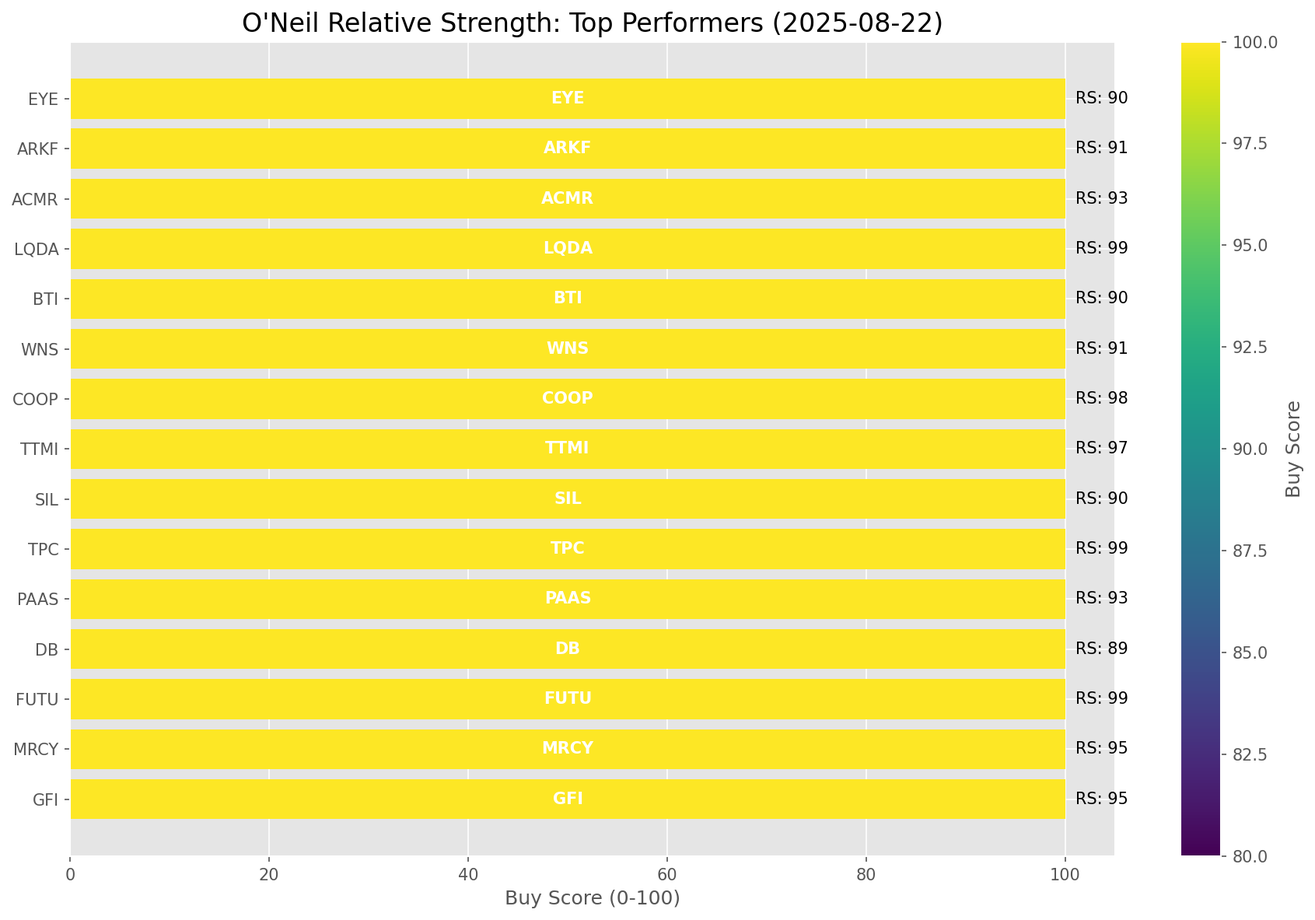
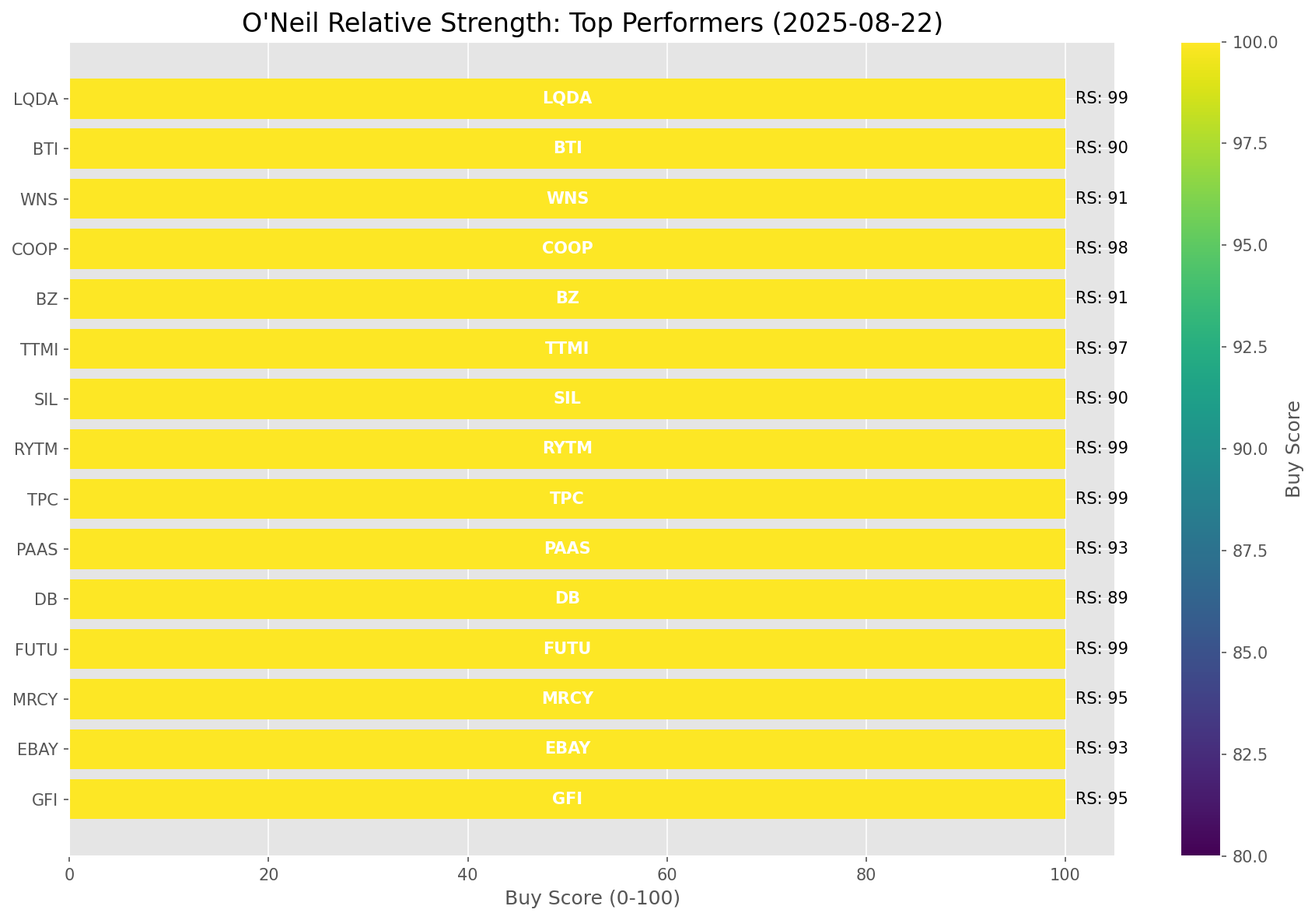
Add market report for 2025-08-22

diff --git a/oneil_relative_strength_report_2025-08-22.md b/oneil_relative_strength_report_2025-08-22.md
@@ -13,7 +13,7 @@
 | **Historical Mean** | 9.87 |
 | **Standard Deviation** | 0.41 |
 | **Z-Score (StdDev from Mean)** | 1.07 |
-| **Total Market Cap** | $318.15 trillion |
+| **Total Market Cap** | $318.18 trillion |
 | **GDP** | $30.33 trillion |
 
 ## **Market Insights**
@@ -49,41 +49,41 @@ Based on William O'Neil's Relative Strength Methodology
 
 | ETF | Strength | RS Rating | Performance | Above Key MAs | Trend | Sector |
 |-----|----------|-----------|-------------|--------------|-------|--------|
-| [URA](https://www.tradingview.com/chart/?symbol=URA) | 97.0 | 94.0 | 37.97% | 10d ✓, 50d ✓, 200d ✓ | ↗ | Uranium |
-| [ARKK](https://www.tradingview.com/chart/?symbol=ARKK) | 96.0 | 92.0 | 35.85% | 10d ✓, 50d ✓, 200d ✓ | ↗ | Innovation |
-| [ARKF](https://www.tradingview.com/chart/?symbol=ARKF) | 95.5 | 91.0 | 33.00% | 10d ✓, 50d ✓, 200d ✓ | ↗ | Fintech Innovation |
-| [ARKW](https://www.tradingview.com/chart/?symbol=ARKW) | 95.0 | 90.0 | 32.04% | 10d ✓, 50d ✓, 200d ✓ | ↗ | Next Generation Internet |
-| [SOXX](https://www.tradingview.com/chart/?symbol=SOXX) | 90.5 | 81.0 | 21.51% | 10d ✓, 50d ✓, 200d ✓ | ↗ | Semiconductors |
-| [JETS](https://www.tradingview.com/chart/?symbol=JETS) | 88.0 | 76.0 | 18.37% | 10d ✓, 50d ✓, 200d ✓ | ↗ | Airlines |
-| [SLV](https://www.tradingview.com/chart/?symbol=SLV) | 87.5 | 75.0 | 17.88% | 10d ✓, 50d ✓, 200d ✓ | ↗ | Silver |
-| [BLOK](https://www.tradingview.com/chart/?symbol=BLOK) | 87.0 | 74.0 | 17.66% | 10d ✓, 50d ✓, 200d ✓ | ↗ | Blockchain & Cryptocurrency |
-| [PAVE](https://www.tradingview.com/chart/?symbol=PAVE) | 84.0 | 68.0 | 13.89% | 10d ✓, 50d ✓, 200d ✓ | ↗ | Infrastructure |
-| [KWEB](https://www.tradingview.com/chart/?symbol=KWEB) | 84.0 | 68.0 | 13.96% | 10d ✓, 50d ✓, 200d ✓ | ↗ | Chinese Internet |
-| [AIQ](https://www.tradingview.com/chart/?symbol=AIQ) | 81.0 | 62.0 | 11.54% | 10d ✓, 50d ✓, 200d ✓ | ↗ | Artificial Intelligence & Technology |
-| [XLC](https://www.tradingview.com/chart/?symbol=XLC) | 79.0 | 58.0 | 10.45% | 10d ✓, 50d ✓, 200d ✓ | ↗ | Communications |
-| [IYZ](https://www.tradingview.com/chart/?symbol=IYZ) | 78.5 | 57.0 | 9.91% | 10d ✓, 50d ✓, 200d ✓ | ↗ | Telecommunications |
-| [XLY](https://www.tradingview.com/chart/?symbol=XLY) | 78.0 | 56.0 | 9.58% | 10d ✓, 50d ✓, 200d ✓ | ↗ | Consumer Discretionary |
-| [XLI](https://www.tradingview.com/chart/?symbol=XLI) | 76.0 | 52.0 | 8.38% | 10d ✓, 50d ✓, 200d ✓ | ↗ | Industrial |
-| [XLK](https://www.tradingview.com/chart/?symbol=XLK) | 74.6 | 69.0 | 14.50% | 10d ✗, 50d ✓, 200d ✓ | ↗ | Technology |
-| [XLU](https://www.tradingview.com/chart/?symbol=XLU) | 74.0 | 48.0 | 7.36% | 10d ✓, 50d ✓, 200d ✓ | ↗ | Utilities |
-| [XLF](https://www.tradingview.com/chart/?symbol=XLF) | 73.0 | 46.0 | 6.61% | 10d ✓, 50d ✓, 200d ✓ | ↗ | Financial |
-| [ITB](https://www.tradingview.com/chart/?symbol=ITB) | 72.5 | 85.0 | 25.08% | 10d ✓, 50d ✓, 200d ✓ | ↘ | Home Construction |
-| [ARKG](https://www.tradingview.com/chart/?symbol=ARKG) | 70.5 | 81.0 | 21.94% | 10d ✓, 50d ✓, 200d ✓ | ↘ | Genomics |
-| [ICLN](https://www.tradingview.com/chart/?symbol=ICLN) | 67.0 | 74.0 | 17.63% | 10d ✓, 50d ✓, 200d ✓ | ↘ | Clean Energy |
-| [GLD](https://www.tradingview.com/chart/?symbol=GLD) | 66.0 | 32.0 | 2.36% | 10d ✓, 50d ✓, 200d ✓ | ↗ | Gold |
-| [IBB](https://www.tradingview.com/chart/?symbol=IBB) | 65.5 | 71.0 | 15.54% | 10d ✓, 50d ✓, 200d ✓ | ↘ | Biotechnology |
-| [DBA](https://www.tradingview.com/chart/?symbol=DBA) | 60.5 | 21.0 | -0.26% | 10d ✓, 50d ✓, 200d ✓ | ↗ | Agriculture |
-| [IYT](https://www.tradingview.com/chart/?symbol=IYT) | 59.5 | 59.0 | 10.67% | 10d ✓, 50d ✓, 200d ✓ | ↘ | Transportation |
-| [XLE](https://www.tradingview.com/chart/?symbol=XLE) | 55.5 | 51.0 | 8.04% | 10d ✓, 50d ✓, 200d ✓ | ↘ | Energy |
-| [CIBR](https://www.tradingview.com/chart/?symbol=CIBR) | 54.6 | 29.0 | 1.69% | 10d ✓, 50d ✗, 200d ✓ | ↗ | Cybersecurity |
-| [XLB](https://www.tradingview.com/chart/?symbol=XLB) | 54.0 | 48.0 | 7.32% | 10d ✓, 50d ✓, 200d ✓ | ↘ | Materials |
-| [IYR](https://www.tradingview.com/chart/?symbol=IYR) | 52.0 | 44.0 | 6.09% | 10d ✓, 50d ✓, 200d ✓ | ↘ | Real Estate |
-| [XLV](https://www.tradingview.com/chart/?symbol=XLV) | 41.8 | 44.0 | 5.84% | 10d ✓, 50d ✓, 200d ✗ | ↘ | Healthcare |
-| [BIL](https://www.tradingview.com/chart/?symbol=BIL) | 41.0 | 22.0 | 0.05% | 10d ✓, 50d ✓, 200d ✓ | ↘ | Short-term Treasuries |
-| [DBC](https://www.tradingview.com/chart/?symbol=DBC) | 38.6 | 37.0 | 3.72% | 10d ✓, 50d ✗, 200d ✓ | ↘ | Commodities |
-| [TLT](https://www.tradingview.com/chart/?symbol=TLT) | 37.3 | 35.0 | 3.12% | 10d ✓, 50d ✓, 200d ✗ | ↘ | Long-term Treasuries |
-| [XLP](https://www.tradingview.com/chart/?symbol=XLP) | 33.6 | 27.0 | 1.24% | 10d ✗, 50d ✓, 200d ✓ | ↘ | Consumer Staples |
-| [UUP](https://www.tradingview.com/chart/?symbol=UUP) | 19.9 | 20.0 | -0.84% | 10d ✗, 50d ✓, 200d ✗ | ↘ | U.S. Dollar |
+| [URA](https://www.tradingview.com/chart/?symbol=URA) | 97.0 | 94.0 | 38.29% | 10d ✓, 50d ✓, 200d ✓ | ↗ | Uranium |
+| [ARKK](https://www.tradingview.com/chart/?symbol=ARKK) | 96.5 | 93.0 | 35.72% | 10d ✓, 50d ✓, 200d ✓ | ↗ | Innovation |
+| [ARKF](https://www.tradingview.com/chart/?symbol=ARKF) | 95.5 | 91.0 | 32.87% | 10d ✓, 50d ✓, 200d ✓ | ↗ | Fintech Innovation |
+| [ARKW](https://www.tradingview.com/chart/?symbol=ARKW) | 95.0 | 90.0 | 31.90% | 10d ✓, 50d ✓, 200d ✓ | ↗ | Next Generation Internet |
+| [SOXX](https://www.tradingview.com/chart/?symbol=SOXX) | 90.0 | 80.0 | 21.06% | 10d ✓, 50d ✓, 200d ✓ | ↗ | Semiconductors |
+| [JETS](https://www.tradingview.com/chart/?symbol=JETS) | 88.0 | 76.0 | 18.64% | 10d ✓, 50d ✓, 200d ✓ | ↗ | Airlines |
+| [SLV](https://www.tradingview.com/chart/?symbol=SLV) | 87.5 | 75.0 | 17.68% | 10d ✓, 50d ✓, 200d ✓ | ↗ | Silver |
+| [BLOK](https://www.tradingview.com/chart/?symbol=BLOK) | 87.0 | 74.0 | 17.28% | 10d ✓, 50d ✓, 200d ✓ | ↗ | Blockchain & Cryptocurrency |
+| [KWEB](https://www.tradingview.com/chart/?symbol=KWEB) | 84.0 | 68.0 | 13.85% | 10d ✓, 50d ✓, 200d ✓ | ↗ | Chinese Internet |
+| [PAVE](https://www.tradingview.com/chart/?symbol=PAVE) | 84.0 | 68.0 | 13.87% | 10d ✓, 50d ✓, 200d ✓ | ↗ | Infrastructure |
+| [AIQ](https://www.tradingview.com/chart/?symbol=AIQ) | 81.0 | 62.0 | 11.51% | 10d ✓, 50d ✓, 200d ✓ | ↗ | Artificial Intelligence & Technology |
+| [XLC](https://www.tradingview.com/chart/?symbol=XLC) | 79.0 | 58.0 | 10.59% | 10d ✓, 50d ✓, 200d ✓ | ↗ | Communications |
+| [IYZ](https://www.tradingview.com/chart/?symbol=IYZ) | 78.5 | 57.0 | 10.16% | 10d ✓, 50d ✓, 200d ✓ | ↗ | Telecommunications |
+| [XLY](https://www.tradingview.com/chart/?symbol=XLY) | 78.0 | 56.0 | 9.66% | 10d ✓, 50d ✓, 200d ✓ | ↗ | Consumer Discretionary |
+| [XLI](https://www.tradingview.com/chart/?symbol=XLI) | 75.5 | 51.0 | 8.39% | 10d ✓, 50d ✓, 200d ✓ | ↗ | Industrial |
+| [XLK](https://www.tradingview.com/chart/?symbol=XLK) | 74.6 | 69.0 | 14.42% | 10d ✗, 50d ✓, 200d ✓ | ↗ | Technology |
+| [XLU](https://www.tradingview.com/chart/?symbol=XLU) | 74.0 | 48.0 | 7.42% | 10d ✓, 50d ✓, 200d ✓ | ↗ | Utilities |
+| [XLF](https://www.tradingview.com/chart/?symbol=XLF) | 73.0 | 46.0 | 6.65% | 10d ✓, 50d ✓, 200d ✓ | ↗ | Financial |
+| [ITB](https://www.tradingview.com/chart/?symbol=ITB) | 72.5 | 85.0 | 25.26% | 10d ✓, 50d ✓, 200d ✓ | ↘ | Home Construction |
+| [ARKG](https://www.tradingview.com/chart/?symbol=ARKG) | 70.0 | 80.0 | 21.23% | 10d ✓, 50d ✓, 200d ✓ | ↘ | Genomics |
+| [ICLN](https://www.tradingview.com/chart/?symbol=ICLN) | 67.5 | 75.0 | 17.74% | 10d ✓, 50d ✓, 200d ✓ | ↘ | Clean Energy |
+| [GLD](https://www.tradingview.com/chart/?symbol=GLD) | 66.0 | 32.0 | 2.46% | 10d ✓, 50d ✓, 200d ✓ | ↗ | Gold |
+| [IBB](https://www.tradingview.com/chart/?symbol=IBB) | 65.0 | 70.0 | 15.17% | 10d ✓, 50d ✓, 200d ✓ | ↘ | Biotechnology |
+| [DBA](https://www.tradingview.com/chart/?symbol=DBA) | 61.0 | 22.0 | -0.22% | 10d ✓, 50d ✓, 200d ✓ | ↗ | Agriculture |
+| [IYT](https://www.tradingview.com/chart/?symbol=IYT) | 59.5 | 59.0 | 10.75% | 10d ✓, 50d ✓, 200d ✓ | ↘ | Transportation |
+| [XLE](https://www.tradingview.com/chart/?symbol=XLE) | 55.0 | 50.0 | 7.84% | 10d ✓, 50d ✓, 200d ✓ | ↘ | Energy |
+| [CIBR](https://www.tradingview.com/chart/?symbol=CIBR) | 54.1 | 28.0 | 1.48% | 10d ✓, 50d ✗, 200d ✓ | ↗ | Cybersecurity |
+| [XLB](https://www.tradingview.com/chart/?symbol=XLB) | 54.0 | 48.0 | 7.35% | 10d ✓, 50d ✓, 200d ✓ | ↘ | Materials |
+| [IYR](https://www.tradingview.com/chart/?symbol=IYR) | 52.0 | 44.0 | 6.06% | 10d ✓, 50d ✓, 200d ✓ | ↘ | Real Estate |
+| [XLP](https://www.tradingview.com/chart/?symbol=XLP) | 43.5 | 27.0 | 1.44% | 10d ✓, 50d ✓, 200d ✓ | ↘ | Consumer Staples |
+| [XLV](https://www.tradingview.com/chart/?symbol=XLV) | 41.3 | 43.0 | 5.84% | 10d ✓, 50d ✓, 200d ✗ | ↘ | Healthcare |
+| [BIL](https://www.tradingview.com/chart/?symbol=BIL) | 41.0 | 22.0 | 0.04% | 10d ✓, 50d ✓, 200d ✓ | ↘ | Short-term Treasuries |
+| [DBC](https://www.tradingview.com/chart/?symbol=DBC) | 38.6 | 37.0 | 3.71% | 10d ✓, 50d ✗, 200d ✓ | ↘ | Commodities |
+| [TLT](https://www.tradingview.com/chart/?symbol=TLT) | 37.3 | 35.0 | 3.13% | 10d ✓, 50d ✓, 200d ✗ | ↘ | Long-term Treasuries |
+| [UUP](https://www.tradingview.com/chart/?symbol=UUP) | 19.9 | 20.0 | -0.87% | 10d ✗, 50d ✓, 200d ✗ | ↘ | U.S. Dollar |
 
 ### **Sector ETF Performance Interpretation**
 
@@ -100,175 +100,165 @@ This table shows the relative strength metrics for different market sectors base
 
 The current market leadership is coming from the following sectors: **Uranium, Innovation, Fintech Innovation**.
 
-The **Uranium** sector (represented by **URA**) is showing particularly strong relative strength with an RS rating of 94.0 and performance of 37.97% vs. the S&P 500. This sector is trading above its 10-day, 50-day, 200-day moving average(s). Investors should consider focusing on high RS stocks within these leading sectors for potential outperformance.
+The **Uranium** sector (represented by **URA**) is showing particularly strong relative strength with an RS rating of 94.0 and performance of 38.29% vs. the S&P 500. This sector is trading above its 10-day, 50-day, 200-day moving average(s). Investors should consider focusing on high RS stocks within these leading sectors for potential outperformance.
 
 ---
 
 ## **Buy Recommendations**
 
-The following 42 stocks show exceptional relative strength:
+The following 48 stocks show exceptional relative strength:
 
 | RS Rating | Buy Score | Current Price | Chart | Name | Ticker |
 |-----------|-----------|---------------|-------|------|--------|
-| 99 | 100 | $193.13 | [Chart](https://www.tradingview.com/chart/?symbol=FUTU) | Futu Holdings Limited American Depositary Shares | FUTU |
-| 99 | 100 | $58.49 | [Chart](https://www.tradingview.com/chart/?symbol=TPC) | Tutor Perini Corporation | TPC |
-| 99 | 100 | $26.93 | [Chart](https://www.tradingview.com/chart/?symbol=LQDA) | Liquidia Corporation Common Stock | LQDA |
-| 99 | 100 | $44.45 | [Chart](https://www.tradingview.com/chart/?symbol=RKLB) | Rocket Lab Corporation Common Stock | RKLB |
-| 98 | 100 | $199.36 | [Chart](https://www.tradingview.com/chart/?symbol=COOP) | Mr. Cooper Group Inc. Common Stock | COOP |
-| 97 | 100 | $44.24 | [Chart](https://www.tradingview.com/chart/?symbol=TTMI) | TTM Technologies Inc | TTMI |
-| 97 | 100 | $90.08 | [Chart](https://www.tradingview.com/chart/?symbol=LIF) | Life360, Inc. Common Stock | LIF |
-| 96 | 100 | $343.51 | [Chart](https://www.tradingview.com/chart/?symbol=RCL) | Royal Caribbean Group | RCL |
-| 96 | 100 | $33.96 | [Chart](https://www.tradingview.com/chart/?symbol=CPS) | Cooper-Standard Automotive Inc. | CPS |
-| 95 | 100 | $31.08 | [Chart](https://www.tradingview.com/chart/?symbol=GFI) | Gold Fields Ltd ADR | GFI |
-| 95 | 100 | $66.61 | [Chart](https://www.tradingview.com/chart/?symbol=MRCY) | Mercury Systems Inc. | MRCY |
-| 94 | 100 | $60.32 | [Chart](https://www.tradingview.com/chart/?symbol=VIK) | Viking Holdings Ltd | VIK |
-| 93 | 100 | $32.52 | [Chart](https://www.tradingview.com/chart/?symbol=PAAS) | Pan American Silver Corp. | PAAS |
-| 93 | 100 | $30.78 | [Chart](https://www.tradingview.com/chart/?symbol=ACMR) | ACM Research, Inc. Class A Common Stock | ACMR |
-| 93 | 100 | $99.22 | [Chart](https://www.tradingview.com/chart/?symbol=TPB) | Turning Point Brands, Inc. | TPB |
-| 92 | 100 | $31.75 | [Chart](https://www.tradingview.com/chart/?symbol=SRAD) | Sportradar Group AG Class A Ordinary Shares | SRAD |
-| 91 | 100 | $75.44 | [Chart](https://www.tradingview.com/chart/?symbol=WNS) | WNS (Holdings) Limited | WNS |
-| 91 | 100 | $54.47 | [Chart](https://www.tradingview.com/chart/?symbol=ARKF) | ARK Fintech Innovation ETF | ARKF |
-| 90 | 100 | $55.23 | [Chart](https://www.tradingview.com/chart/?symbol=SIL) | Global X Silver Miners ETF (NEW) | SIL |
-| 90 | 100 | $58.57 | [Chart](https://www.tradingview.com/chart/?symbol=BTI) | British American Tobacco p.l.c. American Depositary Shares, American Depositary Shares, each representing one Ordinary Share | BTI |
-| 90 | 100 | $24.68 | [Chart](https://www.tradingview.com/chart/?symbol=EYE) | National Vision Holdings, Inc. Common Stock | EYE |
-| 90 | 100 | $158.47 | [Chart](https://www.tradingview.com/chart/?symbol=ARKW) | ARK Next Generation Internet ETF | ARKW |
+| 99 | 100 | $190.64 | [Chart](https://www.tradingview.com/chart/?symbol=FUTU) | Futu Holdings Limited American Depositary Shares | FUTU |
+| 99 | 100 | $58.43 | [Chart](https://www.tradingview.com/chart/?symbol=TPC) | Tutor Perini Corporation | TPC |
+| 99 | 100 | $103.27 | [Chart](https://www.tradingview.com/chart/?symbol=RYTM) | Rhythm Pharmaceuticals, Inc. Common Stock | RYTM |
+| 99 | 100 | $26.84 | [Chart](https://www.tradingview.com/chart/?symbol=LQDA) | Liquidia Corporation Common Stock | LQDA |
+| 99 | 100 | $44.38 | [Chart](https://www.tradingview.com/chart/?symbol=RKLB) | Rocket Lab Corporation Common Stock | RKLB |
+| 98 | 100 | $198.98 | [Chart](https://www.tradingview.com/chart/?symbol=COOP) | Mr. Cooper Group Inc. Common Stock | COOP |
+| 97 | 100 | $44.43 | [Chart](https://www.tradingview.com/chart/?symbol=TTMI) | TTM Technologies Inc | TTMI |
+| 97 | 100 | $90.22 | [Chart](https://www.tradingview.com/chart/?symbol=LIF) | Life360, Inc. Common Stock | LIF |
+| 96 | 100 | $344.67 | [Chart](https://www.tradingview.com/chart/?symbol=RCL) | Royal Caribbean Group | RCL |
+| 96 | 100 | $34.18 | [Chart](https://www.tradingview.com/chart/?symbol=CPS) | Cooper-Standard Automotive Inc. | CPS |
+| 95 | 100 | $31.12 | [Chart](https://www.tradingview.com/chart/?symbol=GFI) | Gold Fields Ltd ADR | GFI |
+| 95 | 100 | $66.83 | [Chart](https://www.tradingview.com/chart/?symbol=MRCY) | Mercury Systems Inc. | MRCY |
+| 94 | 100 | $60.39 | [Chart](https://www.tradingview.com/chart/?symbol=VIK) | Viking Holdings Ltd | VIK |
+| 93 | 100 | $99.22 | [Chart](https://www.tradingview.com/chart/?symbol=EBAY) | eBay Inc | EBAY |
+| 93 | 100 | $32.64 | [Chart](https://www.tradingview.com/chart/?symbol=PAAS) | Pan American Silver Corp. | PAAS |
+| 93 | 100 | $98.91 | [Chart](https://www.tradingview.com/chart/?symbol=TPB) | Turning Point Brands, Inc. | TPB |
+| 92 | 100 | $30.53 | [Chart](https://www.tradingview.com/chart/?symbol=ACMR) | ACM Research, Inc. Class A Common Stock | ACMR |
+| 91 | 100 | $22.84 | [Chart](https://www.tradingview.com/chart/?symbol=BZ) | KANZHUN LIMITED American Depository Shares | BZ |
+| 91 | 100 | $75.38 | [Chart](https://www.tradingview.com/chart/?symbol=WNS) | WNS (Holdings) Limited | WNS |
+| 91 | 100 | $54.41 | [Chart](https://www.tradingview.com/chart/?symbol=ARKF) | ARK Fintech Innovation ETF | ARKF |
+| 91 | 100 | $24.83 | [Chart](https://www.tradingview.com/chart/?symbol=EYE) | National Vision Holdings, Inc. Common Stock | EYE |
+| 91 | 100 | $31.63 | [Chart](https://www.tradingview.com/chart/?symbol=SRAD) | Sportradar Group AG Class A Ordinary Shares | SRAD |
+| 90 | 100 | $55.33 | [Chart](https://www.tradingview.com/chart/?symbol=SIL) | Global X Silver Miners ETF (NEW) | SIL |
+| 90 | 100 | $58.51 | [Chart](https://www.tradingview.com/chart/?symbol=BTI) | British American Tobacco p.l.c. American Depositary Shares, American Depositary Shares, each representing one Ordinary Share | BTI |
+| 90 | 100 | $158.31 | [Chart](https://www.tradingview.com/chart/?symbol=ARKW) | ARK Next Generation Internet ETF | ARKW |
 | 89 | 100 | $37.15 | [Chart](https://www.tradingview.com/chart/?symbol=DB) | Deutsche Bank Aktiengesellschaft | DB |
-| 89 | 100 | $48.02 | [Chart](https://www.tradingview.com/chart/?symbol=LTM) | LATAM Airlines Group S.A. American Depositary Shares (each representing two thousand (2,000) shares of Common Stock) | LTM |
-| 90 | 99 | $22.84 | [Chart](https://www.tradingview.com/chart/?symbol=BZ) | KANZHUN LIMITED American Depository Shares | BZ |
-| 89 | 99 | $95.31 | [Chart](https://www.tradingview.com/chart/?symbol=C) | Citigroup Inc. | C |
-| 89 | 98 | $17.64 | [Chart](https://www.tradingview.com/chart/?symbol=ARLO) | Arlo Technologies, Inc. | ARLO |
-| 87 | 98 | $23.64 | [Chart](https://www.tradingview.com/chart/?symbol=MAG) | MAG Silver Corp. | MAG |
-| 85 | 98 | $51.17 | [Chart](https://www.tradingview.com/chart/?symbol=RING) | iShares MSCI Global Gold Miners ETF | RING |
-| 87 | 97 | $197.30 | [Chart](https://www.tradingview.com/chart/?symbol=AWI) | Armstrong World Industries, Inc. | AWI |
-| 84 | 97 | $42.20 | [Chart](https://www.tradingview.com/chart/?symbol=AHR) | American Healthcare REIT, Inc. | AHR |
-| 86 | 96 | $124.47 | [Chart](https://www.tradingview.com/chart/?symbol=PPLT) | abrdn Physical Platinum Shares ETF | PPLT |
-| 85 | 95 | $58.57 | [Chart](https://www.tradingview.com/chart/?symbol=CALX) | CALIX, INC. | CALX |
-| 85 | 95 | $53.40 | [Chart](https://www.tradingview.com/chart/?symbol=FHI) | Federated Hermes, Inc. | FHI |
-| 84 | 95 | $26.24 | [Chart](https://www.tradingview.com/chart/?symbol=TFPM) | Triple Flag Precious Metals Corp. | TFPM |
-| 84 | 95 | $255.52 | [Chart](https://www.tradingview.com/chart/?symbol=BAP) | Credicorp LTD | BAP |
-| 83 | 95 | $30.81 | [Chart](https://www.tradingview.com/chart/?symbol=OR) | OR Royalties Inc. | OR |
-| 83 | 95 | $94.53 | [Chart](https://www.tradingview.com/chart/?symbol=LLYVK) | Liberty Media Corporation Series C Liberty Live Common Stock | LLYVK |
-| 82 | 95 | $26.74 | [Chart](https://www.tradingview.com/chart/?symbol=LAUR) | Laureate Education, Inc. Common Stock | LAUR |
+| 89 | 100 | $48.04 | [Chart](https://www.tradingview.com/chart/?symbol=LTM) | LATAM Airlines Group S.A. American Depositary Shares (each representing two thousand (2,000) shares of Common Stock) | LTM |
+| 88 | 100 | $167.00 | [Chart](https://www.tradingview.com/chart/?symbol=VSEC) | VSE Corp | VSEC |
+| 88 | 98 | $95.26 | [Chart](https://www.tradingview.com/chart/?symbol=C) | Citigroup Inc. | C |
+| 87 | 98 | $23.69 | [Chart](https://www.tradingview.com/chart/?symbol=MAG) | MAG Silver Corp. | MAG |
+| 88 | 97 | $17.54 | [Chart](https://www.tradingview.com/chart/?symbol=ARLO) | Arlo Technologies, Inc. | ARLO |
+| 84 | 97 | $42.47 | [Chart](https://www.tradingview.com/chart/?symbol=AHR) | American Healthcare REIT, Inc. | AHR |
+| 84 | 97 | $51.19 | [Chart](https://www.tradingview.com/chart/?symbol=RING) | iShares MSCI Global Gold Miners ETF | RING |
+| 86 | 96 | $197.24 | [Chart](https://www.tradingview.com/chart/?symbol=AWI) | Armstrong World Industries, Inc. | AWI |
+| 86 | 96 | $31.63 | [Chart](https://www.tradingview.com/chart/?symbol=IIIV) | i3 Verticals, Inc. Class A Common Stock | IIIV |
+| 84 | 96 | $30.87 | [Chart](https://www.tradingview.com/chart/?symbol=OR) | OR Royalties Inc. | OR |
+| 84 | 96 | $95.06 | [Chart](https://www.tradingview.com/chart/?symbol=LLYVK) | Liberty Media Corporation Series C Liberty Live Common Stock | LLYVK |
+| 83 | 96 | $26.92 | [Chart](https://www.tradingview.com/chart/?symbol=LAUR) | Laureate Education, Inc. Common Stock | LAUR |
+| 85 | 95 | $116.33 | [Chart](https://www.tradingview.com/chart/?symbol=AZZ) | AZZ Inc. | AZZ |
+| 85 | 95 | $123.98 | [Chart](https://www.tradingview.com/chart/?symbol=PPLT) | abrdn Physical Platinum Shares ETF | PPLT |
+| 85 | 95 | $53.53 | [Chart](https://www.tradingview.com/chart/?symbol=FHI) | Federated Hermes, Inc. | FHI |
+| 84 | 95 | $26.34 | [Chart](https://www.tradingview.com/chart/?symbol=TFPM) | Triple Flag Precious Metals Corp. | TFPM |
+| 84 | 95 | $255.01 | [Chart](https://www.tradingview.com/chart/?symbol=BAP) | Credicorp LTD | BAP |
+| 84 | 94 | $58.46 | [Chart](https://www.tradingview.com/chart/?symbol=CALX) | CALIX, INC. | CALX |
+| 83 | 93 | $50.39 | [Chart](https://www.tradingview.com/chart/?symbol=FAST) | Fastenal Co | FAST |
 | 81 | 93 | $36.34 | [Chart](https://www.tradingview.com/chart/?symbol=ATRO) | Astronics Corp | ATRO |
-| 82 | 92 | $19.75 | [Chart](https://www.tradingview.com/chart/?symbol=DAN) | Dana Incorporated | DAN |
-| 81 | 91 | $15.98 | [Chart](https://www.tradingview.com/chart/?symbol=EZPW) | Ezcorp Inc | EZPW |
+| 82 | 92 | $19.82 | [Chart](https://www.tradingview.com/chart/?symbol=DAN) | Dana Incorporated | DAN |
+| 81 | 91 | $16.00 | [Chart](https://www.tradingview.com/chart/?symbol=EZPW) | Ezcorp Inc | EZPW |
 
 ---
 
 
 ## **Sell Recommendations**
 
-The following 107 stocks show deteriorating relative strength:
+The following 91 stocks show deteriorating relative strength:
 
 | RS Rating | Sell Score | Current Price | Chart | Name | Ticker |
 |-----------|------------|---------------|-------|------|--------|
-| 1 | 100 | $24.11 | [Chart](https://www.tradingview.com/chart/?symbol=TECS) | Direxion Daily Technology Bear 3x Shares | TECS |
-| 2 | 100 | $21.96 | [Chart](https://www.tradingview.com/chart/?symbol=ZSL) | ProShares UltraShort Silver | ZSL |
-| 2 | 100 | $36.42 | [Chart](https://www.tradingview.com/chart/?symbol=TWM) | ProShares UltraShort Russell2000 | TWM |
-| 2 | 100 | $17.88 | [Chart](https://www.tradingview.com/chart/?symbol=DJT) | Trump Media & Technology Group Corp. Common Stock | DJT |
-| 2 | 100 | $12.07 | [Chart](https://www.tradingview.com/chart/?symbol=ACVA) | ACV Auctions Inc. | ACVA |
-| 2 | 100 | $15.36 | [Chart](https://www.tradingview.com/chart/?symbol=SPT) | Sprout Social, Inc Class A Common Stock | SPT |
-| 2 | 100 | $15.61 | [Chart](https://www.tradingview.com/chart/?symbol=KRNT) | Kornit Digital Ltd. | KRNT |
-| 3 | 100 | $26.85 | [Chart](https://www.tradingview.com/chart/?symbol=BRZE) | Braze, Inc. Class A Common Stock | BRZE |
-| 3 | 100 | $22.02 | [Chart](https://www.tradingview.com/chart/?symbol=CLW) | Clearwater Paper Corporation | CLW |
-| 3 | 100 | $37.69 | [Chart](https://www.tradingview.com/chart/?symbol=SDOW) | ProShares UltraPro Short Dow 30 | SDOW |
-| 3 | 100 | $34.95 | [Chart](https://www.tradingview.com/chart/?symbol=IOT) | Samsara Inc. | IOT |
-| 5 | 100 | $47.43 | [Chart](https://www.tradingview.com/chart/?symbol=EXAS) | Exact Sciences Corp | EXAS |
-| 6 | 100 | $16.96 | [Chart](https://www.tradingview.com/chart/?symbol=S) | SentinelOne, Inc. | S |
-| 7 | 100 | $362.03 | [Chart](https://www.tradingview.com/chart/?symbol=ADBE) | Adobe Inc. | ADBE |
+| 1 | 100 | $24.15 | [Chart](https://www.tradingview.com/chart/?symbol=TECS) | Direxion Daily Technology Bear 3x Shares | TECS |
+| 2 | 100 | $22.07 | [Chart](https://www.tradingview.com/chart/?symbol=ZSL) | ProShares UltraShort Silver | ZSL |
+| 2 | 100 | $36.40 | [Chart](https://www.tradingview.com/chart/?symbol=TWM) | ProShares UltraShort Russell2000 | TWM |
+| 2 | 100 | $17.87 | [Chart](https://www.tradingview.com/chart/?symbol=DJT) | Trump Media & Technology Group Corp. Common Stock | DJT |
+| 2 | 100 | $12.15 | [Chart](https://www.tradingview.com/chart/?symbol=ACVA) | ACV Auctions Inc. | ACVA |
+| 2 | 100 | $15.19 | [Chart](https://www.tradingview.com/chart/?symbol=SPT) | Sprout Social, Inc Class A Common Stock | SPT |
+| 2 | 100 | $15.60 | [Chart](https://www.tradingview.com/chart/?symbol=KRNT) | Kornit Digital Ltd. | KRNT |
+| 3 | 100 | $26.89 | [Chart](https://www.tradingview.com/chart/?symbol=BRZE) | Braze, Inc. Class A Common Stock | BRZE |
+| 3 | 100 | $22.22 | [Chart](https://www.tradingview.com/chart/?symbol=CLW) | Clearwater Paper Corporation | CLW |
+| 3 | 100 | $37.70 | [Chart](https://www.tradingview.com/chart/?symbol=SDOW) | ProShares UltraPro Short Dow 30 | SDOW |
+| 3 | 100 | $34.79 | [Chart](https://www.tradingview.com/chart/?symbol=IOT) | Samsara Inc. | IOT |
+| 5 | 100 | $47.47 | [Chart](https://www.tradingview.com/chart/?symbol=EXAS) | Exact Sciences Corp | EXAS |
 | 7 | 100 | $25.85 | [Chart](https://www.tradingview.com/chart/?symbol=TBBB) | BBB Foods Inc. | TBBB |
-| 8 | 100 | $23.87 | [Chart](https://www.tradingview.com/chart/?symbol=EPC) | Edgewell Personal Care Company | EPC |
-| 8 | 100 | $11.74 | [Chart](https://www.tradingview.com/chart/?symbol=CHPT) | ChargePoint Holdings, Inc. | CHPT |
+| 8 | 100 | $11.80 | [Chart](https://www.tradingview.com/chart/?symbol=CHPT) | ChargePoint Holdings, Inc. | CHPT |
+| 9 | 100 | $11.17 | [Chart](https://www.tradingview.com/chart/?symbol=PATH) | UiPath, Inc. | PATH |
 | 10 | 100 | $38.40 | [Chart](https://www.tradingview.com/chart/?symbol=SH) | ProShares Short S&P500 | SH |
-| 10 | 100 | $60.13 | [Chart](https://www.tradingview.com/chart/?symbol=ATKR) | Atkore Inc. | ATKR |
-| 11 | 100 | $12.36 | [Chart](https://www.tradingview.com/chart/?symbol=BSM) | Black Stone Minerals, L.P. | BSM |
-| 11 | 100 | $18.02 | [Chart](https://www.tradingview.com/chart/?symbol=EBF) | Ennis, Inc. | EBF |
+| 10 | 100 | $12.35 | [Chart](https://www.tradingview.com/chart/?symbol=BSM) | Black Stone Minerals, L.P. | BSM |
+| 10 | 100 | $60.03 | [Chart](https://www.tradingview.com/chart/?symbol=ATKR) | Atkore Inc. | ATKR |
 | 13 | 100 | $15.12 | [Chart](https://www.tradingview.com/chart/?symbol=CHCT) | Community Healthcare Trust Incorporated Common Stock, $0.01 par value per share | CHCT |
-| 14 | 100 | $16.89 | [Chart](https://www.tradingview.com/chart/?symbol=CTO) | CTO Realty Growth, Inc. | CTO |
-| 15 | 100 | $109.27 | [Chart](https://www.tradingview.com/chart/?symbol=CPT) | Camden Property Trust | CPT |
-| 9 | 99 | $21.14 | [Chart](https://www.tradingview.com/chart/?symbol=ERY) | Direxion Daily Energy Bear 2X Shares | ERY |
-| 9 | 99 | $96.00 | [Chart](https://www.tradingview.com/chart/?symbol=CNI) | Canadian National Railway | CNI |
-| 10 | 99 | $787.16 | [Chart](https://www.tradingview.com/chart/?symbol=EQIX) | Equinix, Inc. Common Stock REIT | EQIX |
-| 10 | 99 | $11.18 | [Chart](https://www.tradingview.com/chart/?symbol=PATH) | UiPath, Inc. | PATH |
+| 15 | 100 | $16.95 | [Chart](https://www.tradingview.com/chart/?symbol=CTO) | CTO Realty Growth, Inc. | CTO |
+| 9 | 99 | $21.21 | [Chart](https://www.tradingview.com/chart/?symbol=ERY) | Direxion Daily Energy Bear 2X Shares | ERY |
 | 13 | 99 | $10.02 | [Chart](https://www.tradingview.com/chart/?symbol=NMZ) | Nuveen Municipal High Income Opportunity Fund | NMZ |
-| 16 | 99 | $32.64 | [Chart](https://www.tradingview.com/chart/?symbol=PCVX) | Vaxcyte, Inc. Common Stock | PCVX |
-| 18 | 99 | $39.20 | [Chart](https://www.tradingview.com/chart/?symbol=UDR) | UDR, Inc. | UDR |
-| 6 | 98 | $79.69 | [Chart](https://www.tradingview.com/chart/?symbol=ESTC) | Elastic N.V. | ESTC |
-| 18 | 98 | $20.11 | [Chart](https://www.tradingview.com/chart/?symbol=AVBP) | ArriVent BioPharma, Inc. Common Stock | AVBP |
-| 11 | 97 | $75.06 | [Chart](https://www.tradingview.com/chart/?symbol=OKE) | Oneok, Inc. | OKE |
-| 16 | 97 | $193.40 | [Chart](https://www.tradingview.com/chart/?symbol=AVB) | AvalonBay Communities, Inc. | AVB |
-| 4 | 96 | $146.69 | [Chart](https://www.tradingview.com/chart/?symbol=GDDY) | GoDaddy Inc | GDDY |
-| 8 | 96 | $26.52 | [Chart](https://www.tradingview.com/chart/?symbol=THR) | THERMON GROUP HOLDINGS, INC. | THR |
-| 9 | 96 | $32.76 | [Chart](https://www.tradingview.com/chart/?symbol=PSQ) | ProShares Short QQQ | PSQ |
+| 14 | 99 | $32.29 | [Chart](https://www.tradingview.com/chart/?symbol=PCVX) | Vaxcyte, Inc. Common Stock | PCVX |
+| 15 | 99 | $109.44 | [Chart](https://www.tradingview.com/chart/?symbol=CPT) | Camden Property Trust | CPT |
+| 9 | 98 | $95.94 | [Chart](https://www.tradingview.com/chart/?symbol=CNI) | Canadian National Railway | CNI |
+| 10 | 98 | $786.47 | [Chart](https://www.tradingview.com/chart/?symbol=EQIX) | Equinix, Inc. Common Stock REIT | EQIX |
+| 17 | 98 | $20.11 | [Chart](https://www.tradingview.com/chart/?symbol=AVBP) | ArriVent BioPharma, Inc. Common Stock | AVBP |
+| 18 | 98 | $39.20 | [Chart](https://www.tradingview.com/chart/?symbol=UDR) | UDR, Inc. | UDR |
+| 6 | 97 | $80.06 | [Chart](https://www.tradingview.com/chart/?symbol=ESTC) | Elastic N.V. | ESTC |
+| 9 | 96 | $32.77 | [Chart](https://www.tradingview.com/chart/?symbol=PSQ) | ProShares Short QQQ | PSQ |
+| 11 | 96 | $74.84 | [Chart](https://www.tradingview.com/chart/?symbol=OKE) | Oneok, Inc. | OKE |
 | 12 | 96 | $10.12 | [Chart](https://www.tradingview.com/chart/?symbol=SPDN) | Direxion Daily S&P 500 Bear 1X Shares | SPDN |
-| 13 | 96 | $110.85 | [Chart](https://www.tradingview.com/chart/?symbol=ITGR) | Integer Holdings Corporation | ITGR |
-| 16 | 96 | $26.00 | [Chart](https://www.tradingview.com/chart/?symbol=FCPT) | Four Corners Property Trust, Inc. | FCPT |
-| 5 | 95 | $11.10 | [Chart](https://www.tradingview.com/chart/?symbol=CEPU) | Central Puerto S.A. American Depositary Shares (each represents ten Common Shares) | CEPU |
-| 11 | 95 | $24.82 | [Chart](https://www.tradingview.com/chart/?symbol=DOG) | ProShares Short Dow30 | DOG |
-| 11 | 95 | $15.63 | [Chart](https://www.tradingview.com/chart/?symbol=MCS) | The Marcus Corporation | MCS |
-| 14 | 95 | $10.79 | [Chart](https://www.tradingview.com/chart/?symbol=OEC) | Orion S.A. | OEC |
+| 15 | 96 | $34.91 | [Chart](https://www.tradingview.com/chart/?symbol=RGR) | Sturm, Ruger & Company, Inc. | RGR |
+| 12 | 95 | $110.58 | [Chart](https://www.tradingview.com/chart/?symbol=ITGR) | Integer Holdings Corporation | ITGR |
+| 16 | 95 | $193.62 | [Chart](https://www.tradingview.com/chart/?symbol=AVB) | AvalonBay Communities, Inc. | AVB |
+| 8 | 94 | $26.68 | [Chart](https://www.tradingview.com/chart/?symbol=THR) | THERMON GROUP HOLDINGS, INC. | THR |
+| 10 | 94 | $25.30 | [Chart](https://www.tradingview.com/chart/?symbol=GDEN) | Golden Entertainment, Inc. Common Stock | GDEN |
+| 11 | 94 | $24.82 | [Chart](https://www.tradingview.com/chart/?symbol=DOG) | ProShares Short Dow30 | DOG |
+| 16 | 94 | $26.05 | [Chart](https://www.tradingview.com/chart/?symbol=FCPT) | Four Corners Property Trust, Inc. | FCPT |
 | 17 | 94 | $10.95 | [Chart](https://www.tradingview.com/chart/?symbol=MQY) | Blackrock Muni Yield Quality Fund, Inc | MQY |
-| 8 | 93 | $30.16 | [Chart](https://www.tradingview.com/chart/?symbol=SMPL) | The Simply Good Foods Company Common Stock | SMPL |
-| 15 | 93 | $33.88 | [Chart](https://www.tradingview.com/chart/?symbol=TECK) | Teck Resources Limited | TECK |
-| 16 | 93 | $75.67 | [Chart](https://www.tradingview.com/chart/?symbol=AWR) | American States Water Company | AWR |
-| 19 | 93 | $13.80 | [Chart](https://www.tradingview.com/chart/?symbol=OCSL) | Oaktree Specialty Lending Corporation | OCSL |
-| 11 | 92 | $66.46 | [Chart](https://www.tradingview.com/chart/?symbol=CBZ) | CBIZ, Inc. | CBZ |
-| 12 | 92 | $28.97 | [Chart](https://www.tradingview.com/chart/?symbol=CNX) | CNX Resources Corporation | CNX |
-| 13 | 92 | $31.25 | [Chart](https://www.tradingview.com/chart/?symbol=INVH) | Invitation Homes Inc. Common Stock | INVH |
-| 27 | 92 | $47.53 | [Chart](https://www.tradingview.com/chart/?symbol=EDU) | New Oriental Education and Technology Group, Inc. American Depositary Shares (each representing ten (10) Common Shares) | EDU |
-| 10 | 91 | $49.63 | [Chart](https://www.tradingview.com/chart/?symbol=DT) | Dynatrace, Inc. | DT |
-| 11 | 91 | $210.34 | [Chart](https://www.tradingview.com/chart/?symbol=MMC) | Marsh & McLennan Companies, Inc. | MMC |
-| 18 | 91 | $69.61 | [Chart](https://www.tradingview.com/chart/?symbol=HSIC) | Henry Schein Inc | HSIC |
-| 19 | 91 | $94.25 | [Chart](https://www.tradingview.com/chart/?symbol=IRM) | Iron Mountain Inc. | IRM |
-| 10 | 90 | $63.48 | [Chart](https://www.tradingview.com/chart/?symbol=QSR) | Restaurant Brands International Inc. | QSR |
-| 12 | 90 | $10.59 | [Chart](https://www.tradingview.com/chart/?symbol=DVAX) | Dynavax Technologies Corporation | DVAX |
-| 15 | 90 | $38.71 | [Chart](https://www.tradingview.com/chart/?symbol=APGE) | Apogee Therapeutics, Inc. Common Stock | APGE |
-| 19 | 90 | $11.62 | [Chart](https://www.tradingview.com/chart/?symbol=NVG) | Nuveen AMT-Free Municipal Credit Income Fund | NVG |
-| 22 | 90 | $145.48 | [Chart](https://www.tradingview.com/chart/?symbol=OLED) | Universal Display Corp | OLED |
-| 18 | 89 | $70.01 | [Chart](https://www.tradingview.com/chart/?symbol=PYPL) | PayPal Holdings, Inc. Common Stock | PYPL |
-| 18 | 89 | $81.97 | [Chart](https://www.tradingview.com/chart/?symbol=AGO) | Assured Guaranty, LTD | AGO |
-| 20 | 89 | $10.45 | [Chart](https://www.tradingview.com/chart/?symbol=NMFC) | NEW MOUNTAIN FINANCE CORPORATION | NMFC |
-| 19 | 88 | $29.93 | [Chart](https://www.tradingview.com/chart/?symbol=AMAL) | Amalgamated Financial Corp. Common Stock (DE) | AMAL |
-| 19 | 88 | $26.72 | [Chart](https://www.tradingview.com/chart/?symbol=WKC) | World Kinect Corporation | WKC |
-| 22 | 88 | $22.45 | [Chart](https://www.tradingview.com/chart/?symbol=DIN) | Dine Brands Global, Inc. | DIN |
-| 14 | 87 | $31.88 | [Chart](https://www.tradingview.com/chart/?symbol=JD) | JD.com, Inc. | JD |
-| 18 | 87 | $222.69 | [Chart](https://www.tradingview.com/chart/?symbol=SBAC) | SBA Communications Corp | SBAC |
-| 21 | 87 | $41.08 | [Chart](https://www.tradingview.com/chart/?symbol=CUBE) | CubeSmart | CUBE |
-| 16 | 86 | $63.15 | [Chart](https://www.tradingview.com/chart/?symbol=MDLZ) | Mondelez International, Inc. Class A | MDLZ |
-| 20 | 86 | $45.35 | [Chart](https://www.tradingview.com/chart/?symbol=EPI) | WisdomTree India Earnings Fund ETF | EPI |
-| 21 | 86 | $80.81 | [Chart](https://www.tradingview.com/chart/?symbol=IR) | Ingersoll Rand Inc. Common Stock | IR |
+| 12 | 93 | $15.75 | [Chart](https://www.tradingview.com/chart/?symbol=MCS) | The Marcus Corporation | MCS |
+| 14 | 93 | $33.61 | [Chart](https://www.tradingview.com/chart/?symbol=TECK) | Teck Resources Limited | TECK |
+| 18 | 93 | $13.75 | [Chart](https://www.tradingview.com/chart/?symbol=OCSL) | Oaktree Specialty Lending Corporation | OCSL |
+| 11 | 92 | $28.87 | [Chart](https://www.tradingview.com/chart/?symbol=CNX) | CNX Resources Corporation | CNX |
+| 27 | 92 | $47.63 | [Chart](https://www.tradingview.com/chart/?symbol=EDU) | New Oriental Education and Technology Group, Inc. American Depositary Shares (each representing ten (10) Common Shares) | EDU |
+| 13 | 91 | $31.26 | [Chart](https://www.tradingview.com/chart/?symbol=INVH) | Invitation Homes Inc. Common Stock | INVH |
+| 16 | 91 | $75.66 | [Chart](https://www.tradingview.com/chart/?symbol=AWR) | American States Water Company | AWR |
+| 16 | 91 | $24.30 | [Chart](https://www.tradingview.com/chart/?symbol=JANX) | Janux Therapeutics, Inc. Common Stock | JANX |
+| 18 | 91 | $93.86 | [Chart](https://www.tradingview.com/chart/?symbol=IRM) | Iron Mountain Inc. | IRM |
+| 18 | 91 | $11.63 | [Chart](https://www.tradingview.com/chart/?symbol=NVG) | Nuveen AMT-Free Municipal Credit Income Fund | NVG |
+| 10 | 90 | $49.40 | [Chart](https://www.tradingview.com/chart/?symbol=DT) | Dynatrace, Inc. | DT |
+| 11 | 90 | $210.55 | [Chart](https://www.tradingview.com/chart/?symbol=MMC) | Marsh & McLennan Companies, Inc. | MMC |
+| 11 | 90 | $66.56 | [Chart](https://www.tradingview.com/chart/?symbol=CBZ) | CBIZ, Inc. | CBZ |
+| 18 | 89 | $69.60 | [Chart](https://www.tradingview.com/chart/?symbol=HSIC) | Henry Schein Inc | HSIC |
+| 21 | 89 | $144.87 | [Chart](https://www.tradingview.com/chart/?symbol=OLED) | Universal Display Corp | OLED |
+| 18 | 88 | $69.90 | [Chart](https://www.tradingview.com/chart/?symbol=PYPL) | PayPal Holdings, Inc. Common Stock | PYPL |
+| 19 | 88 | $10.39 | [Chart](https://www.tradingview.com/chart/?symbol=NMFC) | NEW MOUNTAIN FINANCE CORPORATION | NMFC |
+| 19 | 88 | $20.20 | [Chart](https://www.tradingview.com/chart/?symbol=KIDS) | OrthoPediatrics Corp. Common Stock | KIDS |
+| 21 | 88 | $22.38 | [Chart](https://www.tradingview.com/chart/?symbol=DIN) | Dine Brands Global, Inc. | DIN |
+| 19 | 87 | $82.51 | [Chart](https://www.tradingview.com/chart/?symbol=AGO) | Assured Guaranty, LTD | AGO |
+| 14 | 86 | $31.88 | [Chart](https://www.tradingview.com/chart/?symbol=JD) | JD.com, Inc. | JD |
+| 18 | 86 | $222.87 | [Chart](https://www.tradingview.com/chart/?symbol=SBAC) | SBA Communications Corp | SBAC |
+| 19 | 86 | $26.77 | [Chart](https://www.tradingview.com/chart/?symbol=WKC) | World Kinect Corporation | WKC |
+| 20 | 86 | $80.63 | [Chart](https://www.tradingview.com/chart/?symbol=IR) | Ingersoll Rand Inc. Common Stock | IR |
+| 21 | 86 | $41.09 | [Chart](https://www.tradingview.com/chart/?symbol=CUBE) | CubeSmart | CUBE |
 | 24 | 86 | $20.88 | [Chart](https://www.tradingview.com/chart/?symbol=BKLN) | Invesco Senior Loan ETF | BKLN |
-| 19 | 85 | $44.87 | [Chart](https://www.tradingview.com/chart/?symbol=FIZZ) | National Beverage Corp. | FIZZ |
-| 23 | 85 | $11.13 | [Chart](https://www.tradingview.com/chart/?symbol=CLB) | Core Laboratories Inc. | CLB |
-| 24 | 85 | $23.33 | [Chart](https://www.tradingview.com/chart/?symbol=BSJQ) | Invesco BulletShares 2026 High Yield Corporate Bond ETF | BSJQ |
-| 21 | 84 | $14.84 | [Chart](https://www.tradingview.com/chart/?symbol=GBDC) | Golub Capital BDC, Inc. | GBDC |
-| 24 | 84 | $45.90 | [Chart](https://www.tradingview.com/chart/?symbol=FTSL) | First Trust Senior Loan Fund ETF | FTSL |
-| 17 | 83 | $27.21 | [Chart](https://www.tradingview.com/chart/?symbol=SARO) | StandardAero, Inc. | SARO |
-| 28 | 83 | $27.16 | [Chart](https://www.tradingview.com/chart/?symbol=MRNA) | Moderna, Inc. Common Stock | MRNA |
+| 16 | 85 | $63.41 | [Chart](https://www.tradingview.com/chart/?symbol=MDLZ) | Mondelez International, Inc. Class A | MDLZ |
+| 19 | 85 | $30.04 | [Chart](https://www.tradingview.com/chart/?symbol=AMAL) | Amalgamated Financial Corp. Common Stock (DE) | AMAL |
+| 20 | 85 | $45.39 | [Chart](https://www.tradingview.com/chart/?symbol=EPI) | WisdomTree India Earnings Fund ETF | EPI |
+| 24 | 85 | $23.34 | [Chart](https://www.tradingview.com/chart/?symbol=BSJQ) | Invesco BulletShares 2026 High Yield Corporate Bond ETF | BSJQ |
+| 20 | 84 | $14.78 | [Chart](https://www.tradingview.com/chart/?symbol=GBDC) | Golub Capital BDC, Inc. | GBDC |
+| 23 | 84 | $45.88 | [Chart](https://www.tradingview.com/chart/?symbol=FTSL) | First Trust Senior Loan Fund ETF | FTSL |
+| 28 | 82 | $27.12 | [Chart](https://www.tradingview.com/chart/?symbol=MRNA) | Moderna, Inc. Common Stock | MRNA |
 | 22 | 81 | $23.05 | [Chart](https://www.tradingview.com/chart/?symbol=BSJP) | Invesco BulletShares 2025 High Yield Corporate Bond ETF | BSJP |
-| 29 | 81 | $754.37 | [Chart](https://www.tradingview.com/chart/?symbol=ASML) | ASML Holding NV | ASML |
-| 25 | 80 | $37.46 | [Chart](https://www.tradingview.com/chart/?symbol=STBA) | S&T Bancorp Inc | STBA |
-| 27 | 80 | $31.23 | [Chart](https://www.tradingview.com/chart/?symbol=CNQ) | Canadian Natural Resources Limited | CNQ |
-| 31 | 80 | $42.38 | [Chart](https://www.tradingview.com/chart/?symbol=WHD) | Cactus, Inc. | WHD |
-| 37 | 79 | $10.68 | [Chart](https://www.tradingview.com/chart/?symbol=LOCO) | El Pollo Loco Holdings, Inc. | LOCO |
-| 24 | 77 | $211.33 | [Chart](https://www.tradingview.com/chart/?symbol=AMT) | American Tower Corporation | AMT |
+| 26 | 80 | $31.14 | [Chart](https://www.tradingview.com/chart/?symbol=CNQ) | Canadian Natural Resources Limited | CNQ |
+| 30 | 79 | $42.34 | [Chart](https://www.tradingview.com/chart/?symbol=WHD) | Cactus, Inc. | WHD |
+| 37 | 78 | $10.68 | [Chart](https://www.tradingview.com/chart/?symbol=LOCO) | El Pollo Loco Holdings, Inc. | LOCO |
 | 37 | 76 | $22.08 | [Chart](https://www.tradingview.com/chart/?symbol=DBC) | Invesco DB Commodity Index Tracking Fund | DBC |
-| 29 | 74 | $20.07 | [Chart](https://www.tradingview.com/chart/?symbol=INGM) | Ingram Micro Holding Corporation | INGM |
-| 30 | 74 | $31.87 | [Chart](https://www.tradingview.com/chart/?symbol=BOX) | BOX, INC. | BOX |
-| 30 | 74 | $11.02 | [Chart](https://www.tradingview.com/chart/?symbol=FPI) | Farmland Partners Inc. | FPI |
-| 34 | 73 | $13.62 | [Chart](https://www.tradingview.com/chart/?symbol=NAVI) | Navient Corporation | NAVI |
-| 31 | 72 | $37.96 | [Chart](https://www.tradingview.com/chart/?symbol=VNO) | Vornado Realty Trust | VNO |
-| 34 | 72 | $163.58 | [Chart](https://www.tradingview.com/chart/?symbol=TRGP) | Targa Resources Corp. | TRGP |
+| 25 | 75 | $211.88 | [Chart](https://www.tradingview.com/chart/?symbol=AMT) | American Tower Corporation | AMT |
+| 29 | 74 | $31.80 | [Chart](https://www.tradingview.com/chart/?symbol=BOX) | BOX, INC. | BOX |
+| 32 | 73 | $13.56 | [Chart](https://www.tradingview.com/chart/?symbol=NAVI) | Navient Corporation | NAVI |
+| 30 | 72 | $11.04 | [Chart](https://www.tradingview.com/chart/?symbol=FPI) | Farmland Partners Inc. | FPI |
+| 33 | 72 | $163.26 | [Chart](https://www.tradingview.com/chart/?symbol=TRGP) | Targa Resources Corp. | TRGP |
 | 34 | 72 | $15.89 | [Chart](https://www.tradingview.com/chart/?symbol=NCDL) | Nuveen Churchill Direct Lending Corp | NCDL |
-| 36 | 72 | $10.90 | [Chart](https://www.tradingview.com/chart/?symbol=BTZ) | BlackRock Credit Allocation Income Trust | BTZ |
-| 30 | 71 | $14.54 | [Chart](https://www.tradingview.com/chart/?symbol=RDY) | Dr. Reddy's Laboratories Limited American Depositary Shares | RDY |
-| 34 | 70 | $134.77 | [Chart](https://www.tradingview.com/chart/?symbol=APO) | Apollo Global Management, Inc. | APO |
-| 37 | 70 | $130.55 | [Chart](https://www.tradingview.com/chart/?symbol=PLXS) | Plexus Corp | PLXS |
-| 39 | 70 | $76.26 | [Chart](https://www.tradingview.com/chart/?symbol=NUVL) | Nuvalent, Inc. Class A Common Stock | NUVL |
-| 34 | 69 | $13.16 | [Chart](https://www.tradingview.com/chart/?symbol=PDBC) | Invesco Actively Managed Exch-Traded Commodity Fd Tr Invesco Optimum Yield Diversified Commodity Strategy No K-1 ETF | PDBC |
-| 34 | 68 | $40.22 | [Chart](https://www.tradingview.com/chart/?symbol=BIPC) | Brookfield Infrastructure Corporation Class A Exchangeable Subordinate Voting Shares | BIPC |
-| 39 | 68 | $11.46 | [Chart](https://www.tradingview.com/chart/?symbol=GSBD) | Goldman Sachs BDC, Inc. | GSBD |
-| 37 | 65 | $103.69 | [Chart](https://www.tradingview.com/chart/?symbol=CCI) | Crown Castle Inc. | CCI |
+| 35 | 72 | $10.88 | [Chart](https://www.tradingview.com/chart/?symbol=BTZ) | BlackRock Credit Allocation Income Trust | BTZ |
+| 33 | 70 | $134.20 | [Chart](https://www.tradingview.com/chart/?symbol=APO) | Apollo Global Management, Inc. | APO |
+| 38 | 70 | $76.08 | [Chart](https://www.tradingview.com/chart/?symbol=NUVL) | Nuvalent, Inc. Class A Common Stock | NUVL |
+| 32 | 69 | $38.08 | [Chart](https://www.tradingview.com/chart/?symbol=VNO) | Vornado Realty Trust | VNO |
+| 34 | 68 | $13.16 | [Chart](https://www.tradingview.com/chart/?symbol=PDBC) | Invesco Actively Managed Exch-Traded Commodity Fd Tr Invesco Optimum Yield Diversified Commodity Strategy No K-1 ETF | PDBC |
+| 39 | 66 | $12.33 | [Chart](https://www.tradingview.com/chart/?symbol=PBR) | PETROLEO BRASILEIRO S.A.-PETROBRAS ADS (REP 1 COMMON SHARE) | PBR |
+| 38 | 63 | $103.79 | [Chart](https://www.tradingview.com/chart/?symbol=CCI) | Crown Castle Inc. | CCI |
 
 ## **Methodology**
 
